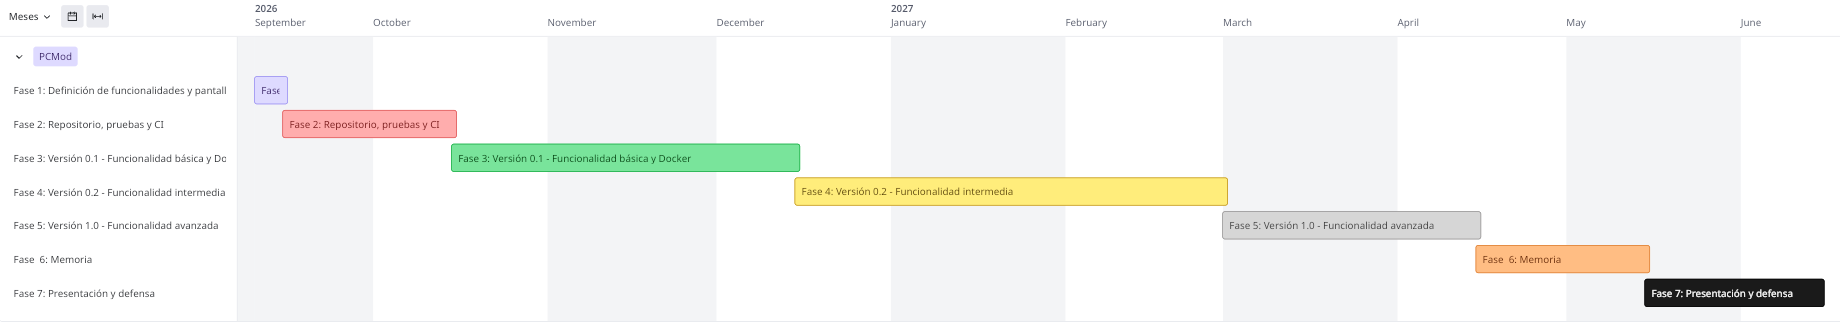
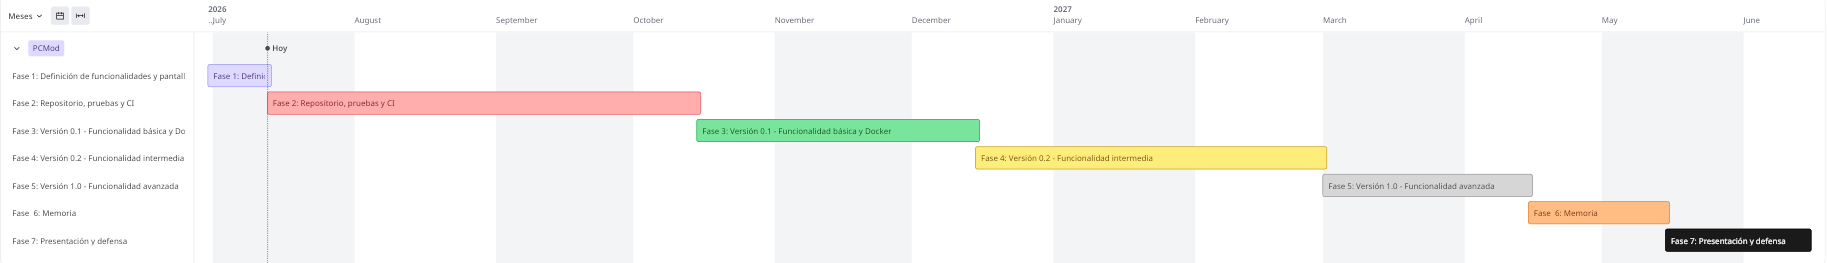
docs: Update README with Phase 1 feedback

diff --git a/README.md b/README.md
@@ -75,7 +75,7 @@ The planned start and delivery dates for each phase are shown below:
 
 | Phase | Start Date | Planned Delivery Date | Actual Delivery Date |
 | ----- | :--------: | :-------------------: | :------------------: |
-| Phase 1: Definition of features and user interfaces | 30/06/2026 | 15/09/2026 | - |
+| Phase 1: Definition of features and user interfaces | 30/06/2026 | 15/09/2026 | 13/07/2026 |
 | Phase 2: Repository, testing and continuous integration | - | 15/10/2026 | - |
 | Phase 3: Version 0.1 – Basic functionality and Docker | - | 15/12/2026 | - |
 | Phase 4: Version 0.2 – Intermediate functionality | - | 01/03/2027 | - |
@@ -114,14 +114,14 @@ The functionalities available in the application are divided into basic, interme
 * Listing all user purchases
 * Listing all users
 * Listing all PCMod purchases
-* Displaying non-graphical statistics
-* Displaying graphical statistics
 
 ### 🛠 Intermediate features:
 
 * Email sending (user registration and purchase completion notifications)
 * PDF generation (purchase invoice sent by email)
 * Advanced search filtering (component name, type, brand, and price)
+* Displaying non-graphical statistics
+* Displaying graphical statistics
 
 ### ⚙ Advanced features:
 
